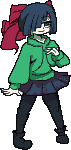
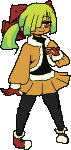
ドット立ち絵の色を公式設定に合わせ、シヨ・ゼロ・リノ・アルも追加
作者指摘: 色が合っていない（公式サイトで確認しながら）。各公式サイトの設定・立ち絵で確認して
清書の色指定を書き直し、作り直した。
- キリコ: 髪=若草色（毛先は青緑）・肌=山吹色・目=赤褐色・赤茶のリボン・毛皮の縁の茶色いエスキモー服
- ロゼ: 青緑のメッシュの黒髪ツーサイドアップ・エメラルドの瞳・肩出しの黒セーター・赤いズボン（裾は炎）・色白
- レイ: オレンジの髪・白いジャケット（オレンジの帯と回路模様）・灰色のスカート
- テト: 赤いドリルのツインテール・青灰色の服に赤い縁取り・黒いニーハイブーツ
- 追加（b16dcfd で入った線画）: シヨ・ゼロ・リノ（髪=アバンギャルドメタリック・カーキの軍服）・アル
run.sh は ONLY でキャラを選べる。topix.py はキャラ id を引数で受ける。

diff --git a/scripts/portrait-dots/topix.py b/scripts/portrait-dots/topix.py
@@ -8,6 +8,8 @@ from scipy import ndimage as ndi
 import os
 S = os.environ.get('WORK', os.path.join(os.getcwd(), 'work')) + '/'
 BODY = int(sys.argv[1]) if len(sys.argv) > 1 else 150
+# 2つめ以降の引数はキャラ id（省略時は work/ の *_ai.png 全部）
+NAMES = sys.argv[2:]
 COLORS = 14
 
 
@@ -79,7 +81,8 @@ def scene(im):
     return Image.fromarray(np.dstack([rgb, a[..., 3]]).astype(np.uint8), 'RGBA')
 
 
-names = ['kiriko', 'roze', 'rei', 'teto']
+import glob
+names = NAMES or sorted(os.path.basename(p)[:-7] for p in glob.glob(S + '*_ai.png'))
 ims = [pix(n) for n in names]
 crop = [im.crop((0, 0, im.width, int(im.height * 0.62))) for im in ims]
 row1 = crop

diff --git a/scripts/portrait-dots/README.md b/scripts/portrait-dots/README.md
@@ -5,9 +5,10 @@ C:/_own/git/ComfyUI/agent/README.md）で「同じポーズ・髪型・服・表
 それをドット絵にする。線画を直接ドット化すると、ラフな内側の線が縮小で潰れて読めなかったため（2026-09-27）。
 
 1. 線画を白地に貼って `work/<id>_white.png` にする（透明のままだと背景が黒く読まれる）
-2. `bash scripts/portrait-dots/run.sh` — キャラごとの色の指示つきで清書（1枚 約40秒）。
+2. `bash scripts/portrait-dots/run.sh`（`ONLY="kiriko teto"` で一部だけ）— キャラごとの色の指示つきで清書（1枚 約40秒）。
+   **色は各キャラの公式サイトの設定・公式立ち絵に合わせる**（run.sh の各行に出典。キリコは肌が山吹色）。
    床の影が出たら「床の影や地面は描かない」を強める／seed を変える
-3. `python scripts/portrait-dots/topix.py 150` — 白地を抜き、全身 150 ドットに面積平均で縮小、
+3. `python scripts/portrait-dots/topix.py 150 [id…]` — 白地を抜き、全身 150 ドットに面積平均で縮小、
    14色に減色、外周に1ドットの輪郭。`work/<id>_pix.png` を public/portraits-dot/<id>.png へ
 4. ゲームは表示のときに場面の色を 45% かける（engine/diorama.ts の tintPortrait）
 
